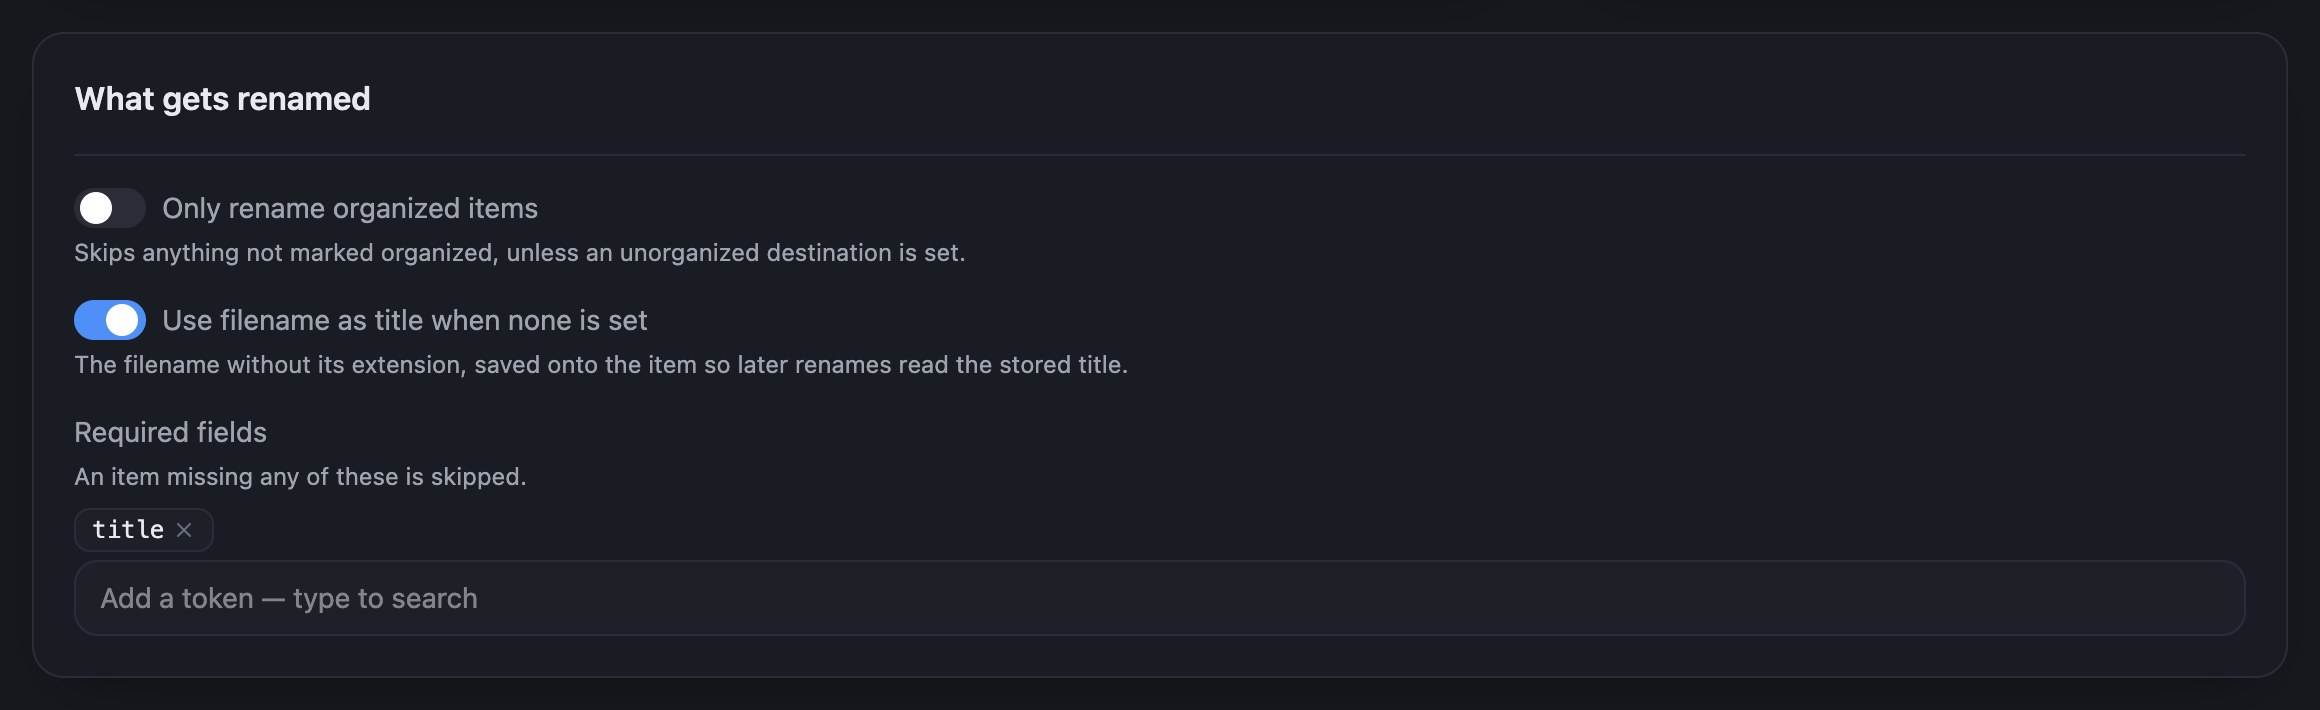
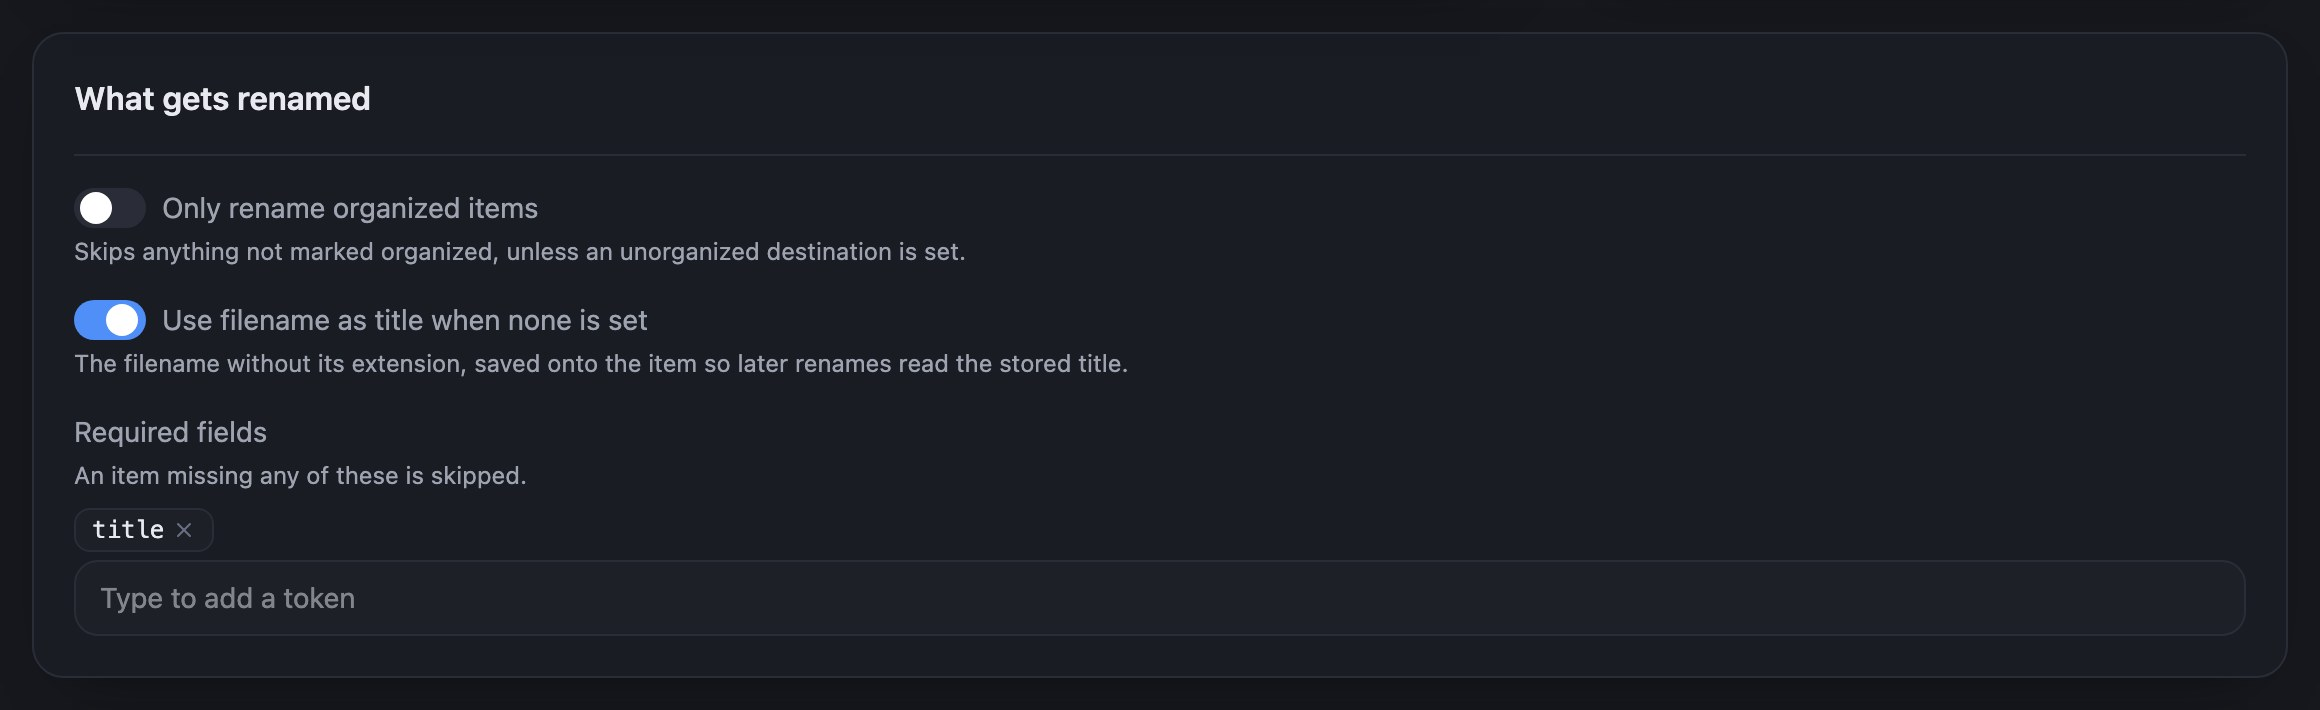
Renamer: plain punctuation in messages, badges and hints
About forty strings the panel, the rename confirm, the dry run and the undo
footer show used an em dash. Each now uses a colon, a period or a comma. The
failed-rename badge reads "Failed and rolled back" and the token inputs say
"Type to add a token". The troubleshooting page quotes the new wording, and
the three screenshots that showed the old text are recaptured.

diff --git a/extensions/Renamer/src/Renamer.Ui/src/settings/undoLogic.test.ts b/extensions/Renamer/src/Renamer.Ui/src/settings/undoLogic.test.ts
@@ -186,15 +186,15 @@ test("the last millisecond inside the window is not expired", () => {
 test("a clean undo reads as a success and counts the files it moved", () => {
   assert.deepEqual(buildUndoFeedback(undoResult({ undone: 12 })), {
     kind: "success",
-    text: "Undone — 12 files moved back to their original names.",
+    text: "Undone: 12 files moved back to their original names.",
   });
   assert.deepEqual(buildUndoFeedback(undoResult({ undone: 1 })), {
     kind: "success",
-    text: "Undone — 1 file moved back to their original names.",
+    text: "Undone: 1 file moved back to their original names.",
   });
   assert.deepEqual(buildUndoFeedback(undoResult({})), {
     kind: "success",
-    text: "Undone — 0 files moved back to their original names.",
+    text: "Undone: 0 files moved back to their original names.",
   });
 });
 
@@ -212,7 +212,7 @@ test("a partial undo counts the problems from the totals, never from the samples
   );
   assert.deepEqual(feedback, {
     kind: "error",
-    text: "Undo finished with problems — 500 files couldn't be moved back (access denied). The rest were restored.",
+    text: "Undo finished with problems: 500 files couldn't be moved back (access denied). The rest were restored.",
   });
 });
 
@@ -222,7 +222,7 @@ test("one problem file is one file", () => {
   );
   assert.deepEqual(feedback, {
     kind: "error",
-    text: "Undo finished with problems — 1 file couldn't be moved back (gone). The rest were restored.",
+    text: "Undo finished with problems: 1 file couldn't be moved back (gone). The rest were restored.",
   });
 });
 
@@ -243,7 +243,7 @@ test("a problem count with an empty sample names no reason rather than an undefi
   const feedback = buildUndoFeedback(undoResult({ undone: 0, failedCount: 7 }));
   assert.deepEqual(feedback, {
     kind: "error",
-    text: "Couldn't undo — unknown reason. Nothing was changed.",
+    text: "Couldn't undo: unknown reason. Nothing was changed.",
   });
 });
 
@@ -253,7 +253,7 @@ test("an undo that restored nothing says nothing was changed", () => {
   );
   assert.deepEqual(feedback, {
     kind: "error",
-    text: "Couldn't undo — access denied. Nothing was changed.",
+    text: "Couldn't undo: access denied. Nothing was changed.",
   });
 });
 
@@ -267,7 +267,7 @@ test("a stranded companion is reported beside a run that otherwise succeeded", (
   );
   assert.deepEqual(feedback, {
     kind: "error",
-    text: "Undone — 12 files moved back to their original names. 2 companion files stayed behind (poster.jpg is still under the renamed name).",
+    text: "Undone: 12 files moved back to their original names. 2 companion files stayed behind (poster.jpg is still under the renamed name).",
   });
 });
 
@@ -299,6 +299,6 @@ test("a stranded companion rides on a partial undo too", () => {
   );
   assert.equal(
     feedback.text,
-    "Undo finished with problems — 2 files couldn't be moved back (in use). The rest were restored. 1 companion file stayed behind (left over).",
+    "Undo finished with problems: 2 files couldn't be moved back (in use). The rest were restored. 1 companion file stayed behind (left over).",
   );
 });

diff --git a/extensions/Renamer/src/Renamer.Ui/src/settings/undoLogic.ts b/extensions/Renamer/src/Renamer.Ui/src/settings/undoLogic.ts
@@ -125,7 +125,7 @@ export function buildUndoFeedback(result: UndoResult): UndoFeedback {
   if (problemCount === 0) {
     return {
       kind: stranded ? "error" : "success",
-      text: `Undone — ${result.undone} ${plural(result.undone, "file", "files")} moved back to their original names.${stranded}`,
+      text: `Undone: ${result.undone} ${plural(result.undone, "file", "files")} moved back to their original names.${stranded}`,
     };
   }
 
@@ -140,11 +140,11 @@ export function buildUndoFeedback(result: UndoResult): UndoFeedback {
   if (result.undone > 0) {
     return {
       kind: "error",
-      text: `Undo finished with problems — ${problemCount} ${plural(problemCount, "file", "files")} couldn't be moved back (${firstReason}). The rest were restored.${stranded}`,
+      text: `Undo finished with problems: ${problemCount} ${plural(problemCount, "file", "files")} couldn't be moved back (${firstReason}). The rest were restored.${stranded}`,
     };
   }
 
-  return { kind: "error", text: `Couldn't undo — ${firstReason}. Nothing was changed.` };
+  return { kind: "error", text: `Couldn't undo: ${firstReason}. Nothing was changed.` };
 }
 
 /**
@@ -161,11 +161,11 @@ export function buildUndoFeedback(result: UndoResult): UndoFeedback {
 export function buildUndoUnconfirmed(detail: string): UndoFeedback {
   return {
     kind: "error",
-    text: `Couldn't confirm the undo — ${detail}. Some files may already have been moved back; check the batch before trying again.`,
+    text: `Couldn't confirm the undo: ${detail}. Some files may already have been moved back; check the batch before trying again.`,
   };
 }
 
 /** Compose the sentence for an undo the server answered with a refusal, which moved nothing. */
 export function buildUndoRefused(detail: string): UndoFeedback {
-  return { kind: "error", text: `Couldn't undo — ${detail}. Nothing was changed.` };
+  return { kind: "error", text: `Couldn't undo: ${detail}. Nothing was changed.` };
 }

diff --git a/extensions/Renamer/src/Renamer.Ui/src/rename-action/confirmSummaryLogic.ts b/extensions/Renamer/src/Renamer.Ui/src/rename-action/confirmSummaryLogic.ts
@@ -117,7 +117,7 @@ function buildBlastLines(summary?: PreviewSummary): string[] {
 function confirmCallToAction(level: ConfirmLevel): string {
   const reversibility = `You can undo this afterwards.`;
   return level === "heavy"
-    ? `This is a LARGE cross-drive move — files will be COPIED across drives, which can take a while. ` +
+    ? `This is a LARGE cross-drive move. Files will be COPIED across drives, which can take a while. ` +
         `Click OK only if you are sure; Cancel to stop. ${reversibility}`
     : level === "standard"
       ? `This moves files across drives. Click OK to proceed, or Cancel to stop. ${reversibility}`
@@ -177,7 +177,7 @@ export function buildConfirmSummary(
   const inFlightOverflow = summary?.inFlightPathOverflowCount ?? 0;
   if (inFlightOverflow > 0) {
     warningLines.push(
-      `⚠ ${inFlightOverflow} cannot be copied across drives — the temporary copy's path would be too ` +
+      `⚠ ${inFlightOverflow} cannot be copied across drives: the temporary copy's path would be too ` +
         `long. Shorten the destination folder or the filename template for ${inFlightOverflow === 1 ? "it" : "them"}.`,
     );
   }
@@ -189,7 +189,7 @@ export function buildConfirmSummary(
     } else {
       const clauses = skipKinds.map((kind) => `${kind.count} ${kind.clause}`);
       if (unclassified > 0) clauses.push(`${unclassified} for an unrecognised reason`);
-      warningLines.push(`⚠ ${skipped} skipped — ${clauses.join(", ")}.`);
+      warningLines.push(`⚠ ${skipped} skipped: ${clauses.join(", ")}.`);
     }
   }
   if (cleaned > 0) {
@@ -208,7 +208,7 @@ export function buildConfirmSummary(
 
   if (n === 0) {
     const text =
-      `Nothing will be renamed — all ${m} selected item${m === 1 ? "" : "s"} ` +
+      `Nothing will be renamed: all ${m} selected item${m === 1 ? "" : "s"} ` +
       `are skipped or already named correctly.\n\n` +
       warningBlock +
       `Click OK to dismiss.`;

diff --git a/extensions/Renamer/src/Renamer.Ui/src/settings/dry-run/DryRunRows.tsx b/extensions/Renamer/src/Renamer.Ui/src/settings/dry-run/DryRunRows.tsx
@@ -54,7 +54,7 @@ function dirname(p: string): string {
 
 // An attention row's cell is left empty; its badge is the row's only statement of the reason.
 function newNameLabel(bucket: string, nameChanged: boolean, newName: string): string {
-  if (bucket === "no-change") return "— unchanged";
+  if (bucket === "no-change") return "(unchanged)";
   if (bucket !== "will-change") return "";
   return nameChanged ? newName : "(name unchanged)";
 }
@@ -65,8 +65,8 @@ function emptyText(loading: boolean, complete: boolean, searching: boolean): str
     return searching ? "Nothing in your library matches that search." : "No rows in this view.";
   }
   return searching
-    ? "No matches yet — there is more of your library left to search."
-    : "No rows yet — there is more of your library left to read.";
+    ? "No matches yet. There is more of your library left to search."
+    : "No rows yet. There is more of your library left to read.";
 }
 
 function DryRunRow({
@@ -264,7 +264,7 @@ export function DryRunRows({
       {error ? (
         <div className="mt-3">
           <ErrorBox>
-            Couldn&apos;t load more rows — {error}. The rows above are still accurate; try again.
+            Couldn&apos;t load more rows: {error}. The rows above are still accurate; try again.
           </ErrorBox>
         </div>
       ) : null}

diff --git a/extensions/Renamer/src/Renamer.Ui/src/settings/templateAdvisories.tsx b/extensions/Renamer/src/Renamer.Ui/src/settings/templateAdvisories.tsx
@@ -26,14 +26,14 @@ export function TemplateAdvisories({
 }) {
   const lines: string[] = [];
   if (!bracesBalanced(value)) {
-    lines.push("Unmatched { or } — it'll still render, but check your groups.");
+    lines.push("Unmatched { or }. It'll still render, but check your groups.");
   }
   for (const tok of unknownTokens(value)) {
     const suggestion = suggestFor(tok);
     lines.push(
       suggestion
-        ? `${tok} isn't a known token — it'll render as empty. Did you mean ${suggestion}?`
-        : `${tok} isn't a known token — it'll render as empty.`,
+        ? `${tok} isn't a known token. It'll render as empty. Did you mean ${suggestion}?`
+        : `${tok} isn't a known token. It'll render as empty.`,
     );
   }
   for (const label of emptySamples) {
@@ -56,8 +56,8 @@ export function TokenAdvisory({ values }: { values: string[] }) {
     const bare = suggestion ? suggestion.slice(1) : undefined;
     lines.push(
       bare
-        ? `"${value}" isn't a known token — it'll be ignored. Did you mean ${bare}?`
-        : `"${value}" isn't a known token — it'll be ignored.`,
+        ? `"${value}" isn't a known token. It'll be ignored. Did you mean ${bare}?`
+        : `"${value}" isn't a known token. It'll be ignored.`,
     );
   }
   return <AdvisoryLines lines={lines} />;

diff --git a/extensions/Renamer/src/Renamer.Ui/src/settings/renameLibraryBannerLogic.test.ts b/extensions/Renamer/src/Renamer.Ui/src/settings/renameLibraryBannerLogic.test.ts
@@ -57,18 +57,18 @@ test("the success sentence never states how many files were renamed", () => {
 test("a failed run names the failure and says the library is untouched", () => {
   assert.equal(
     buildRenameLibraryError("500 the job did not complete"),
-    "Couldn't rename — 500 the job did not complete. Nothing was changed; you can try again.",
+    "Couldn't rename: 500 the job did not complete. Nothing was changed; you can try again.",
   );
 });
 
 test("a run the UI stopped watching claims nothing about what the job did", () => {
   const unconfirmed = buildRenameLibraryUnconfirmed(
-    "the job stopped reporting progress. It may still be running — check your library before trying again",
+    "the job stopped reporting progress. It may still be running, so check your library before trying again",
   );
 
   assert.equal(
     unconfirmed,
-    "Couldn't confirm the rename — the job stopped reporting progress. It may still be running — check your library before trying again.",
+    "Couldn't confirm the rename: the job stopped reporting progress. It may still be running, so check your library before trying again.",
   );
   assert.ok(!unconfirmed.includes("Nothing was changed"));
 });

diff --git a/extensions/Renamer/src/Renamer.Ui/src/settings/dry-run/warningBadgeLogic.test.ts b/extensions/Renamer/src/Renamer.Ui/src/settings/dry-run/warningBadgeLogic.test.ts
@@ -19,7 +19,7 @@ const EXPECTED_LABEL: Record<RenamerStatus, string | null> = {
   skipRuleTimedOut: "A regex rule timed out",
   skipLocked: "File in use",
   skipMissingSource: "File missing on disk",
-  failed: "Failed — rolled back",
+  failed: "Failed and rolled back",
   skipUnanchored: "File is outside your Cove library",
   skipRootMissing: "The rule's destination is no longer a library path",
   skipNotAllowed: "Destination outside its own root",
@@ -54,7 +54,7 @@ test("a skipped row's variant marks whether the user lost the file or only the r
   assert.deepEqual(badgesFor(row("skipExcluded")), [
     { label: "An exclude rule matched", variant: "amber" },
   ]);
-  assert.deepEqual(badgesFor(row("failed")), [{ label: "Failed — rolled back", variant: "red" }]);
+  assert.deepEqual(badgesFor(row("failed")), [{ label: "Failed and rolled back", variant: "red" }]);
 });
 
 test("an acting row reports what the planner had to change about its name", () => {

diff --git a/extensions/Renamer/src/Renamer.Ui/src/settings/RenamePage.tsx b/extensions/Renamer/src/Renamer.Ui/src/settings/RenamePage.tsx
@@ -64,7 +64,7 @@ function SaveBar({
         <div className="min-w-0 flex-1">
           {saveError ? (
             <StatusText kind="error">
-              Couldn't save settings — {saveError}. Your changes are still here; try Save again.
+              Couldn't save settings: {saveError}. Your changes are still here; try Save again.
             </StatusText>
           ) : savedFlash ? (
             <StatusText kind="success">Settings saved.</StatusText>
@@ -135,9 +135,7 @@ export function RenamePage() {
   if (loadError) {
     return (
       <div className="space-y-3">
-        <StatusText kind="error">
-          Couldn't load your saved settings — {loadError}. Retry.
-        </StatusText>
+        <StatusText kind="error">Couldn't load your saved settings: {loadError}. Retry.</StatusText>
         <div>
           <Button variant="ghost" onClick={() => void load()}>
             Retry

diff --git a/extensions/Renamer/src/Renamer.Ui/src/settings/dry-run/dryRunLogic.test.ts b/extensions/Renamer/src/Renamer.Ui/src/settings/dry-run/dryRunLogic.test.ts
@@ -297,7 +297,7 @@ test("etaFromSamples EWMA decays the cold-start rate instead of flashing a bogus
   const early = etaFromSamples([
     { timeMs: 0, progress: 0.01 },
     { timeMs: 7200, progress: 0.02 }, // slow seed (rate #1)
-    { timeMs: 7400, progress: 0.52 }, // one fast poll (rate #2 — now shown)
+    { timeMs: 7400, progress: 0.52 }, // one fast poll (rate #2 - now shown)
   ]);
   assert.ok(early !== null && early < 60, `expected under a minute once warmed, got ${early}`);
 });
@@ -317,7 +317,7 @@ test("etaFromSamples withholds the estimate until it has ETA_MIN_RATES smoothed 
   assert.equal(
     etaFromSamples([
       { timeMs: 0, progress: 0.2 },
-      { timeMs: 1000, progress: 0.2 }, // flat — skipped, not a rate
+      { timeMs: 1000, progress: 0.2 }, // flat - skipped, not a rate
       { timeMs: 2000, progress: 0.3 }, // rate #1 only
     ]),
     null,

diff --git a/extensions/Renamer/src/Renamer.Ui/src/settings/AdvancedSection.tsx b/extensions/Renamer/src/Renamer.Ui/src/settings/AdvancedSection.tsx
@@ -207,7 +207,7 @@ export function AdvancedSection({ options, set }: AdvancedSectionProps) {
               }}
               ordered
               suggestions={BARE_TOKENS}
-              placeholder="Add a token — type to search"
+              placeholder="Type to add a token"
               ariaLabel="Drop order"
             />
             <TokenAdvisory values={options.dropOrder} />
@@ -275,7 +275,7 @@ export function AdvancedSection({ options, set }: AdvancedSectionProps) {
             never want this extension to touch. All three flow through set() like every other control. */}
       <CollapsibleSection
         title="Excludes"
-        summary="Skip items by tag, studio, or source path — before any routing"
+        summary="Skip items by tag, studio, or source path, before any routing"
       >
         <EntitySelectField
           entityType="tag"

diff --git a/extensions/Renamer/src/Renamer.Ui/src/settings/jobPollLogic.ts b/extensions/Renamer/src/Renamer.Ui/src/settings/jobPollLogic.ts
@@ -73,7 +73,7 @@ export function decidePoll(observation: PollObservation, context: PollContext): 
       return {
         action: "expire",
         message:
-          "Cove stopped answering when asked about this job. It may still be running — check your library before trying again",
+          "Cove stopped answering when asked about this job. It may still be running, so check your library before trying again",
       };
     }
     return { action: "continue" };
@@ -88,7 +88,7 @@ export function decidePoll(observation: PollObservation, context: PollContext): 
     return {
       action: "expire",
       message:
-        "the job stopped reporting progress. It may still be running — check your library before trying again",
+        "the job stopped reporting progress. It may still be running, so check your library before trying again",
     };
   }
 

diff --git a/extensions/Renamer/src/Renamer.Ui/src/settings/renameLibraryBannerLogic.ts b/extensions/Renamer/src/Renamer.Ui/src/settings/renameLibraryBannerLogic.ts
@@ -18,7 +18,7 @@ export function buildRenameLibrarySuccess(counts: DryRunCounts): string {
 
 /** The banner for a run the job itself reported as failed or cancelled. */
 export function buildRenameLibraryError(detail: string): string {
-  return `Couldn't rename — ${detail}. Nothing was changed; you can try again.`;
+  return `Couldn't rename: ${detail}. Nothing was changed; you can try again.`;
 }
 
 /**
@@ -29,5 +29,5 @@ export function buildRenameLibraryError(detail: string): string {
  * falsehood about a destructive operation.
  */
 export function buildRenameLibraryUnconfirmed(detail: string): string {
-  return `Couldn't confirm the rename — ${detail}.`;
+  return `Couldn't confirm the rename: ${detail}.`;
 }
